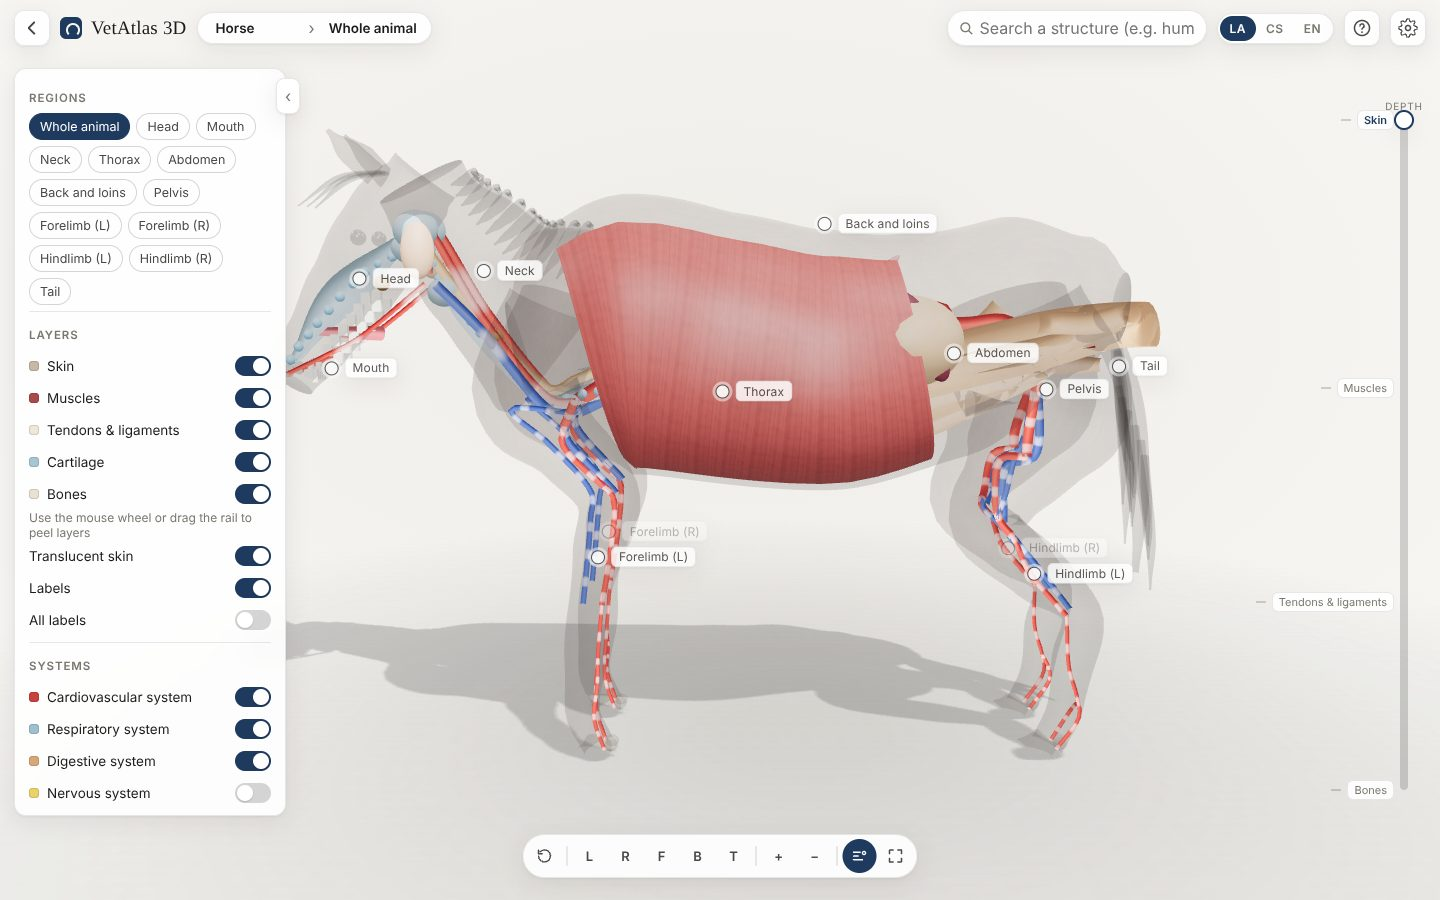
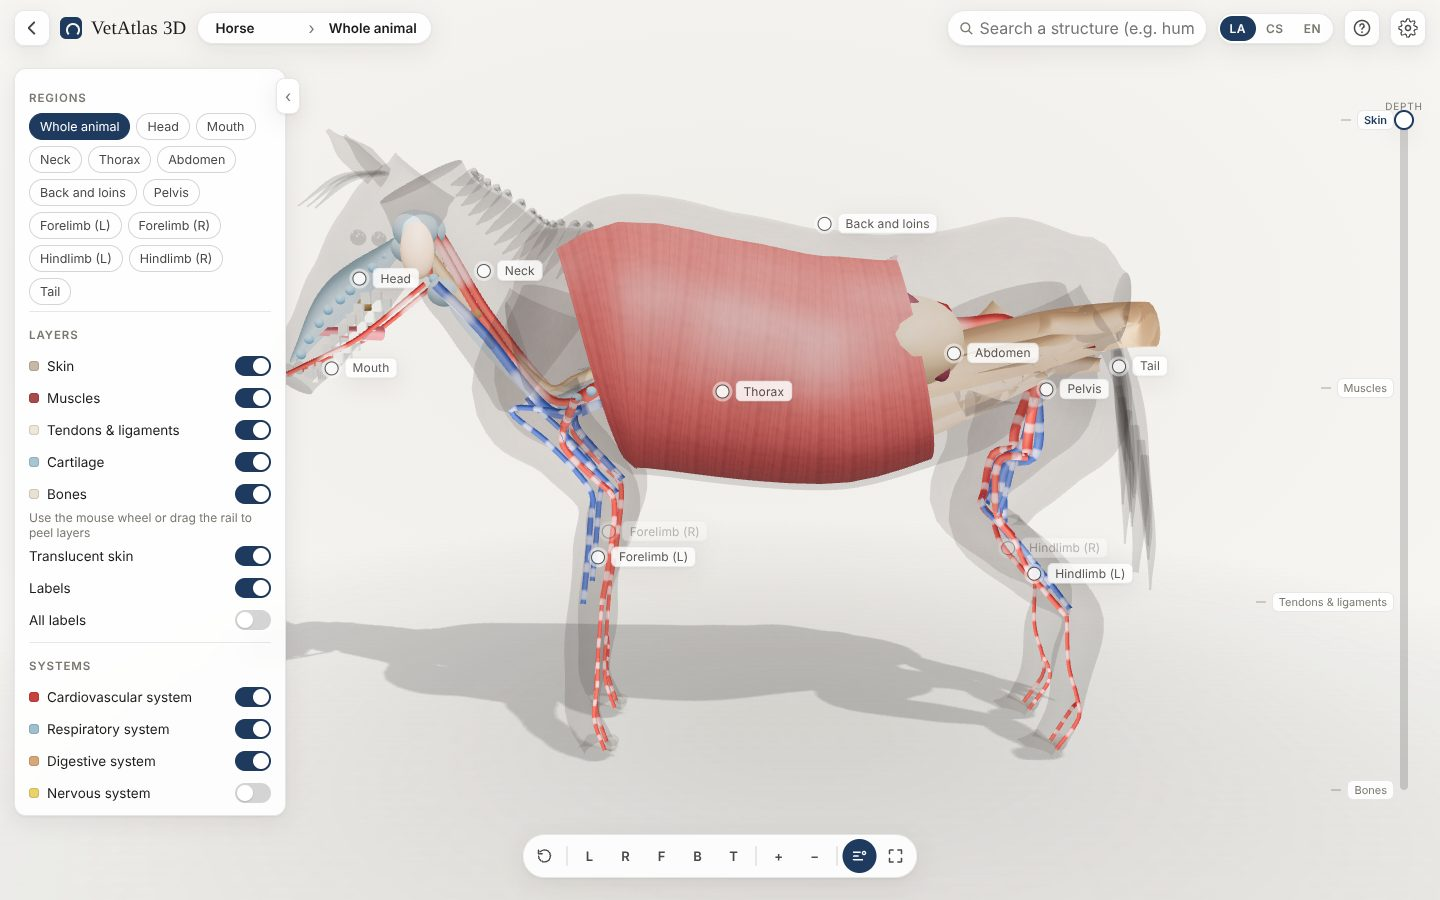
Share the sheet musculature with cattle, goat, dog and cat
The sheet map is defined in normalised body-surface coordinates, so the
same écorché layout adapts to each rig; it now replaces the fusiform
sweeps for the superficial muscles of all five species. The bone-hiding
rule is gated on a sheet-based musculature so a species without sheets
keeps its skeleton visible.

Claude-Session: https://claude.ai/code/session_01CEEESpaZsK3PXqnruddyvt

diff --git a/shared/src/species.ts b/shared/src/species.ts
@@ -4,10 +4,13 @@
  * cranial = -x, dorsal = +y, left = +z.
  */
 import type { SpeciesDef, SpeciesId } from './types.ts';
-import { HORSE_SHEETS } from './anatomy/sheets_horse.ts';
+import { QUADRUPED_SHEETS } from './anatomy/sheets.ts';
+
+/** sheet-based musculature (geometry overrides keyed by structure id), shared by all species */
+const SHEET_OVERRIDES: SpeciesDef['structureOverrides'] = Object.fromEntries(Object.entries(QUADRUPED_SHEETS).map(([id, geometry]) => [id, { geometry }]));
 
 const horse: SpeciesDef = {
-  structureOverrides: Object.fromEntries(Object.entries(HORSE_SHEETS).map(([id, geometry]) => [id, { geometry }])),
+  structureOverrides: SHEET_OVERRIDES,
   meta: {
     id: 'horse',
     names: { la: 'Equus ferus caballus', cs: 'Kůň domácí', en: 'Horse' },
@@ -116,6 +119,7 @@ const horse: SpeciesDef = {
 };
 
 const cow: SpeciesDef = {
+  structureOverrides: SHEET_OVERRIDES,
   meta: {
     id: 'cow',
     names: { la: 'Bos taurus', cs: 'Skot domácí (kráva)', en: 'Cattle (cow)' },
@@ -227,6 +231,7 @@ const cow: SpeciesDef = {
 };
 
 const goat: SpeciesDef = {
+  structureOverrides: SHEET_OVERRIDES,
   meta: {
     id: 'goat',
     names: { la: 'Capra aegagrus hircus', cs: 'Koza domácí', en: 'Goat' },
@@ -337,6 +342,7 @@ const goat: SpeciesDef = {
 };
 
 const dog: SpeciesDef = {
+  structureOverrides: SHEET_OVERRIDES,
   meta: {
     id: 'dog',
     names: { la: 'Canis lupus familiaris', cs: 'Pes domácí', en: 'Dog' },
@@ -444,6 +450,7 @@ const dog: SpeciesDef = {
 };
 
 const cat: SpeciesDef = {
+  structureOverrides: SHEET_OVERRIDES,
   meta: {
     id: 'cat',
     names: { la: 'Felis catus', cs: 'Kočka domácí', en: 'Cat' },

diff --git a/shared/src/anatomy/sheets.ts b/shared/src/anatomy/sheets.ts
@@ -1,16 +1,19 @@
 /**
- * Horse: superficial (and some deeper) muscles as surface sheets.
- * Coordinates are body-surface (u, v) for the LEFT side – see SheetRecipe.
+ * Superficial (and some deeper) muscles as surface sheets, shared by all species.
+ * Coordinates are body-surface (u, v) for the LEFT side – see SheetRecipe – so the
+ * same map adapts to each rig's proportions (the surface parts are normalised):
  *   trunk: v 0 = chest front … 1 = buttock; u 0 dorsal, 0.25 flank, 0.5 belly
  *   neck:  v 0 = base … 1 = head;           u 0 crest, 0.25 side, 0.5 throat
  *   head:  v 0 = poll … 1 = nose;           u 0 forehead, 0.25 cheek, 0.5 jaw
  *   limbs: v 0 = inside trunk … 1 = coffin; u 0 cranial, 0.25 lateral, 0.5 caudal
+ * The layout follows the horse écorché; muscles absent in a species are simply
+ * filtered out by the catalogue.
  */
 import type { GeometryRecipe, SheetRecipe } from '../types.ts';
 
 const sheet = (part: SheetRecipe['part'], corners: SheetRecipe['corners'], bulge: number, extra: Partial<SheetRecipe> = {}): SheetRecipe => ({ type: 'sheet', part, corners, bulge, ...extra });
 
-export const HORSE_SHEETS: Record<string, GeometryRecipe | GeometryRecipe[]> = {
+export const QUADRUPED_SHEETS: Record<string, GeometryRecipe | GeometryRecipe[]> = {
   // ------------------------------------------------------------ head
   m_masseter: sheet('head', [[0.17, 0.64], [0.18, 0.38], [0.45, 0.25], [0.44, 0.55]], 0.028, { layer: 1 }),
   m_temporalis: sheet('head', [[0.08, 0.1], [0.2, 0.13], [0.2, 0.3], [0.07, 0.3]], 0.012, { layer: 1 }),

diff --git a/client/src/three/AtlasStage.tsx b/client/src/three/AtlasStage.tsx
@@ -64,6 +64,8 @@ export function AtlasStage() {
 
   // structure picking (hover + tap) is handled in CameraRig; here we only run per-frame updates
   const ray = useMemo(() => new THREE.Raycaster(), []);
+  // only a sheet-based musculature (one that tiles the body) is allowed to hide the bones beneath it
+  const sheetMuscles = useMemo(() => !!model && model.instances.some((inst) => (Array.isArray(inst.def.geometry) ? inst.def.geometry : [inst.def.geometry]).some((g) => g.type === 'sheet')), [model]);
   void ray;
   void camera;
   void gl;
@@ -103,7 +105,7 @@ export function AtlasStage() {
     atlasRuntime.musclesCur += (musclesTarget - atlasRuntime.musclesCur) * k;
     if (Math.abs(musclesTarget - atlasRuntime.musclesCur) < 0.004) atlasRuntime.musclesCur = musclesTarget;
     // intact muscles hide the bones and cartilage that lie beneath them (axial skeleton, girdles, joints)
-    const musclesCover = musclesTarget === 0 && atlasRuntime.musclesCur < 0.03;
+    const musclesCover = sheetMuscles && musclesTarget === 0 && atlasRuntime.musclesCur < 0.03;
     for (const inst of m.instances) {
       const g = inst.group;
       let target: number;

diff --git a/README.md b/README.md
@@ -45,12 +45,12 @@ docs/     screenshoty z ověření
   (hnědák s černými odznaky, holštýnské skvrny, mourovaté pruhy…),
 - kostra (lebka, dolní čelist, zuby, obratle s trny a příčnými výběžky, žebra, hrudní kost, lopatka, pánev, dlouhé kosti, zápěstní/zánártní
   kůstky, záprstí dle druhu – jedna holenní kost + bodcové kosti / srostlá kost paznehtníků / 5 záprstních kostí, články prstů, sezamské kosti),
-- svaly: u koně jako **svalové pláty** (`shared/src/anatomy/sheets_horse.ts`) – Coonsovy plochy definované v souřadnicích
+- svaly jako **svalové pláty** (`shared/src/anatomy/sheets.ts`, jedna mapa v normalizovaných souřadnicích povrchu pro všechny druhy) – Coonsovy plochy definované v souřadnicích
   parametrického povrchu těla (`client/src/three/surface.ts`), vytlačené dovnitř s klenutou tloušťkou, rýhami na okrajích a texturou
   vláken; kůže i pláty vycházejí ze stejného povrchu, takže na sebe přesně navazují (povrchové svaly dle écorché: m. trapezius,
   latissimus dorsi, serratus ventralis, obliquus externus, gluteální svaly, triceps, extenzory a flexory předloktí, biceps femoris,
-  semitendinosus, gastrocnemius, žvýkací a mimické svaly…). U ostatních druhů zatím vřetenovité „sweep“ geometrie mezi začátkem
-  a úponem. Dále šlachy (zploštělé šlachy ohýbačů a mezikostního vazu), vazy, cévy (hladké křivky přes klouby), nervy, orgány.
+  semitendinosus, gastrocnemius, žvýkací a mimické svaly…); hluboké svaly bez plátu zůstávají vřetenovité „sweep“ geometrie mezi
+  začátkem a úponem. Dále šlachy (zploštělé šlachy ohýbačů a mezikostního vazu), vazy, cévy (hladké křivky přes klouby), nervy, orgány.
 - vrstvy se navzájem zakrývají: neporušená kůže skryje vše pod sebou, neporušená svalová vrstva skryje osovou kostru, pletence,
   proximální dlouhé kosti, zuby a kloubní chrupavky (příznak `covered` ve `shared/src/anatomy/skeleton.ts`).
 
